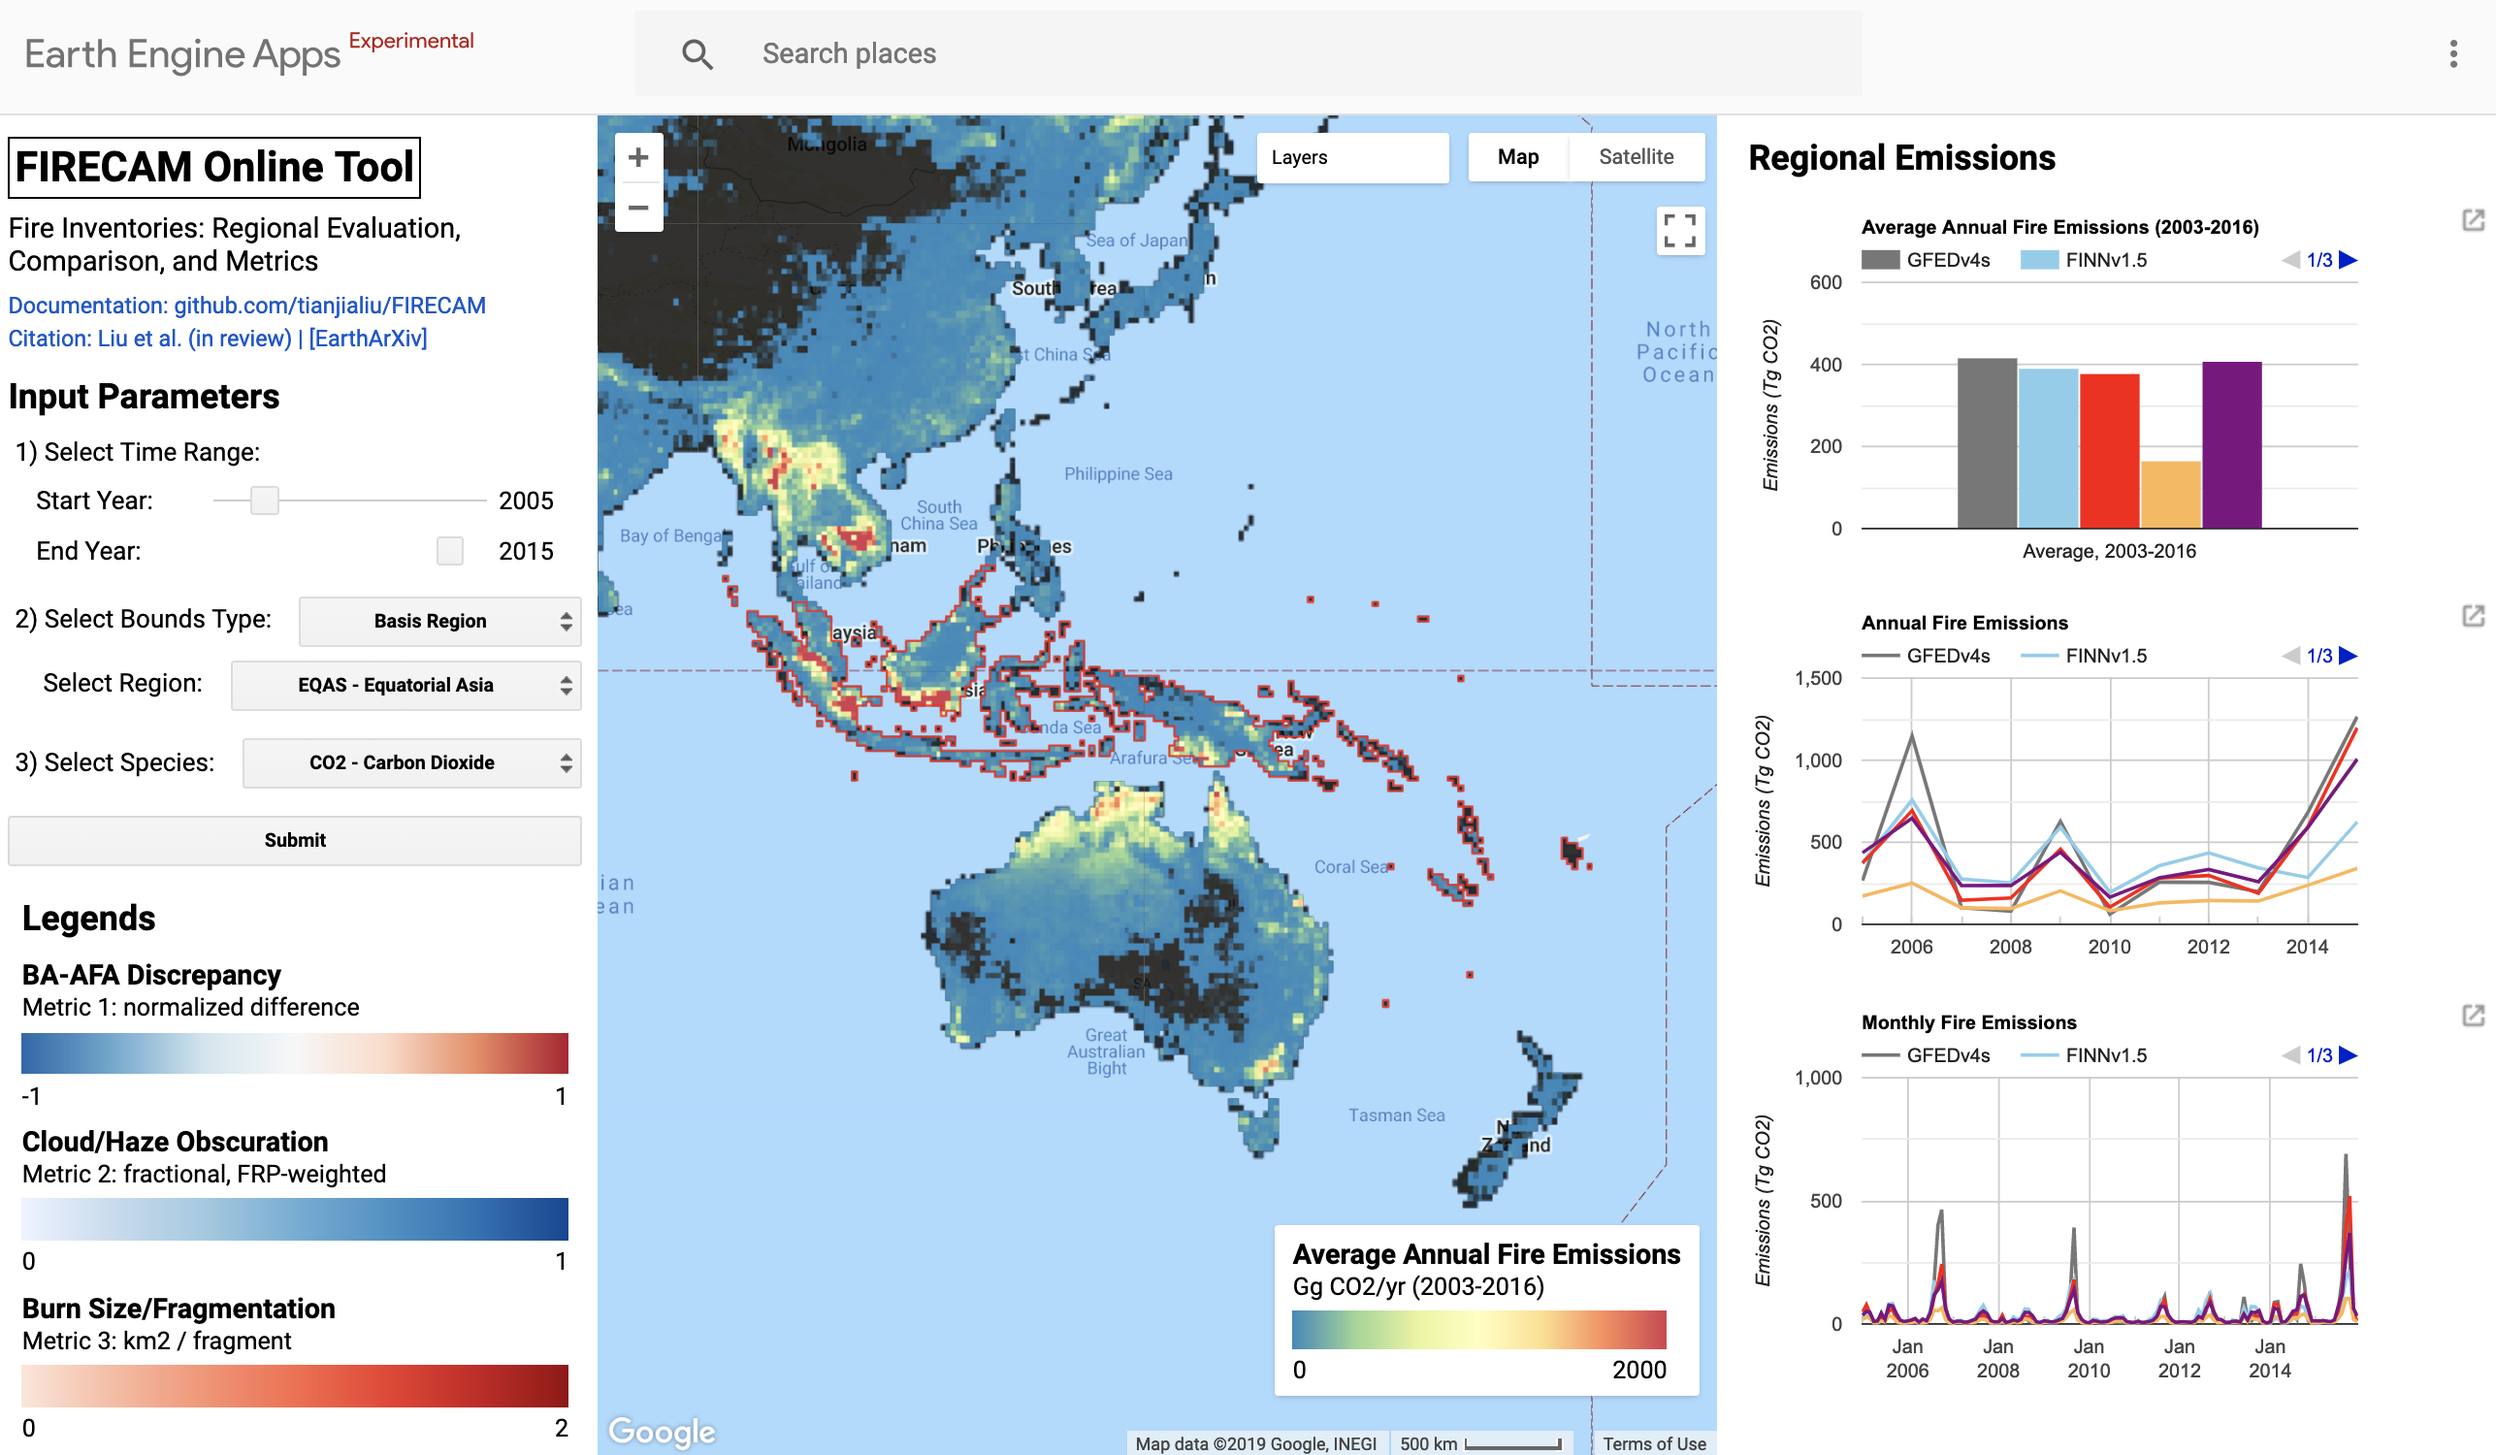
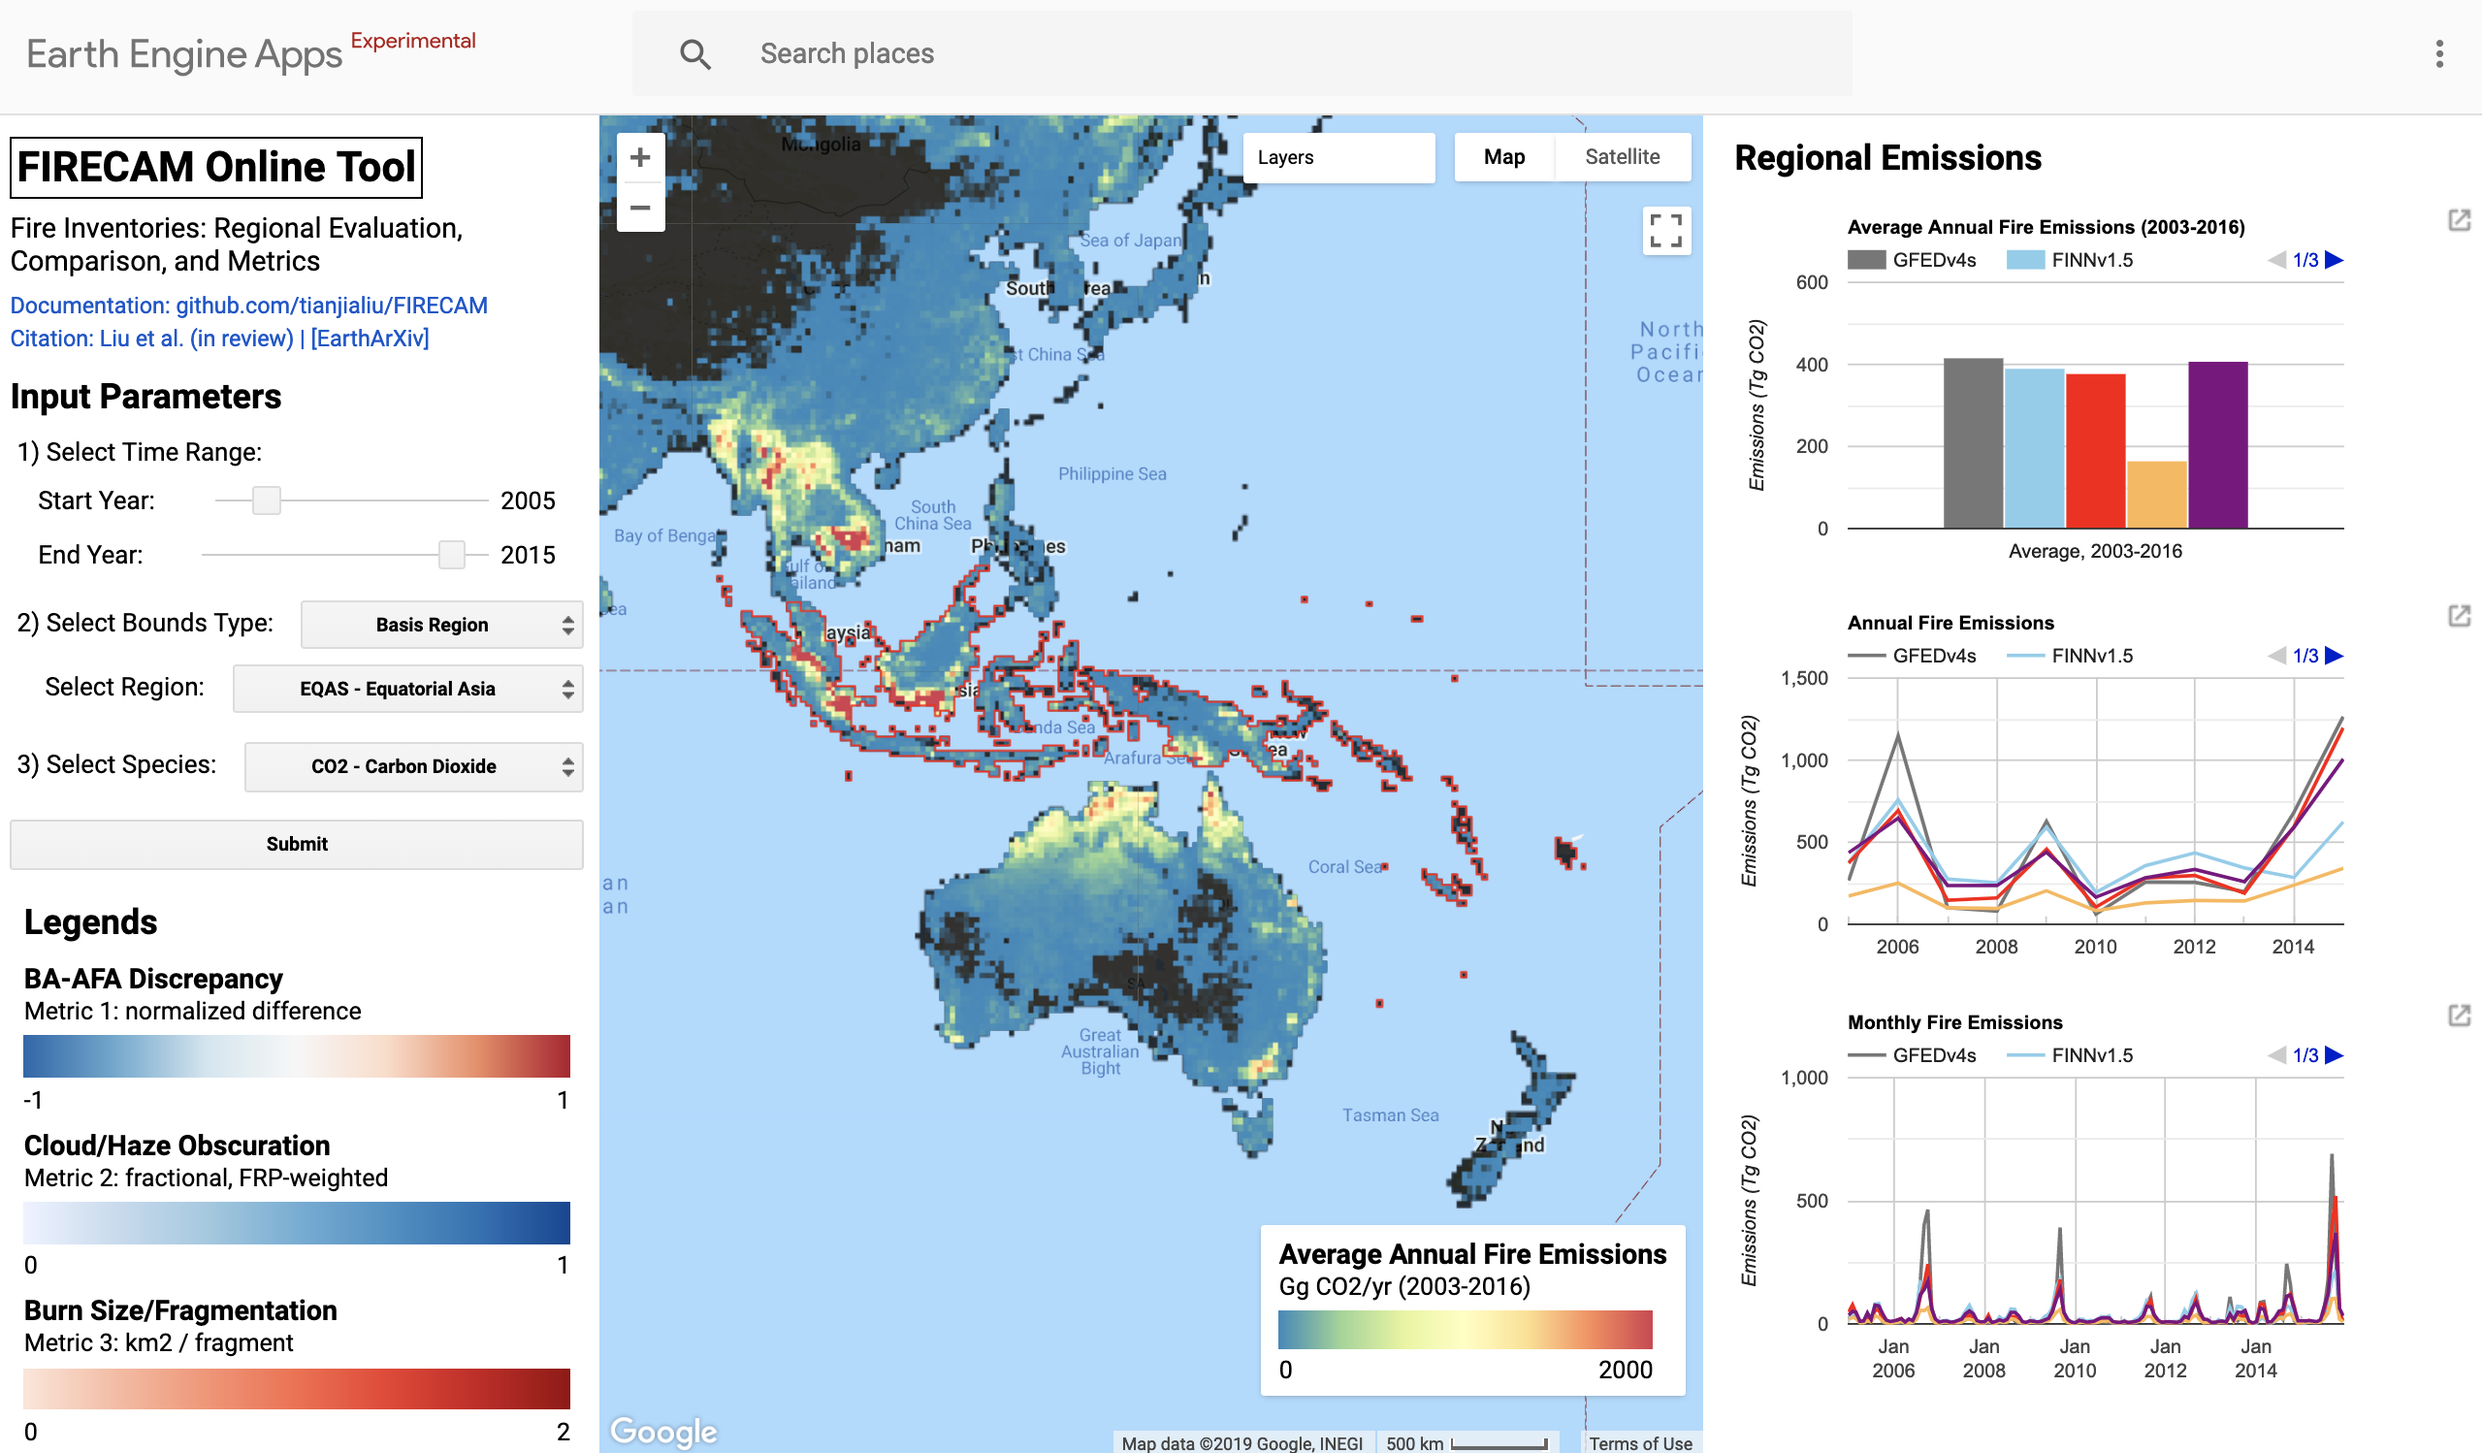
add burned area to GFEDv4s app, fix FIRECAM slider bug

diff --git a/ee/Apps/UI_GFEDv4s_Explorer.js b/ee/Apps/UI_GFEDv4s_Explorer.js
@@ -9,7 +9,7 @@
 // https://doi.org/10.5194/essd-9-697-2017
 
 // Author: Tianjia Liu
-// Last Updated: Feburary 28, 2019
+// Last Updated: March 8, 2019
 
 // ---------------
 // Global Params |
@@ -147,7 +147,7 @@ var EFlist = {
   'HOCH2CHO': [[0.25, 0.86, 0.86, 0.74, 0.74, 0.71]]
 };
 
-var speciesNames = ['DM - Dry Matter', 'C - Carbon',
+var speciesNames = ['BA - Burned Area','DM - Dry Matter', 'C - Carbon',
   'CO2 - Carbon Dioxide', 'CO - Carbon Monoxide', 'CH4 - Methane',
   'NHMC - Non-Methane Hydrocarbons', 'H2 - Hydrogen',
   'NOx - Nitric Oxides', 'N2O - Nitrous Oxide',
@@ -167,6 +167,7 @@ var speciesNames = ['DM - Dry Matter', 'C - Carbon',
 ];
   
 var speciesList = {
+  'BA - Burned Area': 'BA',
   'DM - Dry Matter': 'DM',
   'C - Carbon': 'C',
   'CO2 - Carbon Dioxide': 'CO2',
@@ -218,24 +219,37 @@ var LULC = ['SAVA','BORF','TEMF','DEFO','PEAT','AGRI'];
 var LULCtot = ['Total','SAVA','BORF','TEMF','DEFO','PEAT','AGRI'];
 
 // Calculate emissions of input species by month in kg/ grid cell
-var getEmiByMonth = function(EFs, sYear, eYear) {
+var getEmiByMonth = function(EFs, varType, sYear, eYear) {
   
   var filterYr = ee.Filter.calendarRange(sYear, eYear, 'year');
   var invCol_Yrs = invCol.filter(filterYr);
   
   var emiByMonth = invCol_Yrs.map(function(gfedMon) {
    
-    var DM = gfedMon.select('DM'); // kg per m2
-    var DMfrac = gfedMon.select('DM_.*'); // fraction
-    var sp = DM.multiply(DMfrac).multiply(EFs).multiply(gridArea)
-      .multiply(1e-12); // Tg per grid cell
+    if (varType == 'BA') {
+      var BAfrac = gfedMon.select('burned_fraction');
+      var BAsf = gfedMon.select('small_fire_fraction');
       
-    var spTotal = sp.reduce(ee.Reducer.sum());
-    var emiAll = spTotal.addBands(sp).rename(LULCtot)
-      .reproject({crs: crs, crsTransform: crsTrans})
-      .copyProperties(gfedMon,['system:time_start']);
+      var BA = BAfrac.addBands(BAfrac.multiply(BAsf))
+        .multiply(gridArea).divide(1e6).rename(['BA','BAsf'])
+        .reproject({crs: crs, crsTransform: crsTrans})
+        .copyProperties(gfedMon,['system:time_start']);
+      
+      return BA;
+    } else {
+      var DM = gfedMon.select('DM'); // kg per m2
+      var DMfrac = gfedMon.select('DM_.*'); // fraction
+      var sp = DM.multiply(DMfrac).multiply(EFs).multiply(gridArea)
+        .multiply(1e-12); // Tg per grid cell
+      
+      var spTotal = sp.reduce(ee.Reducer.sum());
+      var emiAll = spTotal.addBands(sp).rename(LULCtot)
+        .reproject({crs: crs, crsTransform: crsTrans})
+        .copyProperties(gfedMon,['system:time_start']);
     
-    return emiAll;
+      return emiAll;
+    }
+
   });
   
   return ee.ImageCollection(emiByMonth);
@@ -278,21 +292,73 @@ var colPalseries = {
   6: {color: 'DB7093'},
 };
 
+var colPalseries_BA = {
+  0: {color: '000000'},
+  1: {color: 'FF0000'},
+};
+
 var plotEmiTS = function(plotPanel, imageCol, regionShp,
   speciesLabel, timePeriod, dateFormat, 
   sYear, eYear, sMonth, eMonth, nLines) {
   
-  return ui.Chart.image.series({
-    imageCollection: imageCol.select(LULCtot,['b1','b2','b3','b4','b5','b6','b7']),
-    region: regionShp,
-    reducer: ee.Reducer.sum().unweighted(),
-    scale: scale,
-    xProperty: 'system:time_start',
-  }).setChartType('LineChart')
-    .setSeriesNames(LULCtot)
-    .setOptions({
-      title: timePeriod + ' Fire Emissions',
-      vAxis: {title: 'Emissions (Tg ' + speciesLabel + ')'},
+  if (speciesLabel == 'BA') {
+    return ui.Chart.image.series({
+      imageCollection: imageCol.select(['BA','BAsf'],['b1','b2']),
+      region: regionShp,
+      reducer: ee.Reducer.sum().unweighted(),
+      scale: scale,
+      xProperty: 'system:time_start',
+    }).setChartType('LineChart')
+      .setSeriesNames(['BA','BA from small fires'])
+      .setOptions({
+        title: timePeriod + ' Burned Area',
+        vAxis: {title: 'Burned Area (sq. km)'},
+        hAxis: {
+          format: dateFormat, 
+          viewWindowMode:'explicit',
+          viewWindow: {
+            min: ee.Date.fromYMD(sYear,sMonth,1).millis().getInfo(),
+            max: ee.Date.fromYMD(eYear,eMonth,1).millis().getInfo()
+          },
+          gridlines: {count: nLines}
+        },
+        height: '230px',
+        series: colPalseries_BA,
+      });
+  } else {
+    return ui.Chart.image.series({
+      imageCollection: imageCol.select(LULCtot,['b1','b2','b3','b4','b5','b6','b7']),
+      region: regionShp,
+      reducer: ee.Reducer.sum().unweighted(),
+      scale: scale,
+      xProperty: 'system:time_start',
+    }).setChartType('LineChart')
+      .setSeriesNames(LULCtot)
+      .setOptions({
+        title: timePeriod + ' Fire Emissions',
+        vAxis: {title: 'Emissions (Tg ' + speciesLabel + ')'},
+        hAxis: {
+          format: dateFormat, 
+          viewWindowMode:'explicit',
+          viewWindow: {
+            min: ee.Date.fromYMD(sYear,sMonth,1).millis().getInfo(),
+            max: ee.Date.fromYMD(eYear,eMonth,1).millis().getInfo()
+          },
+          gridlines: {count: nLines}
+        },
+        height: '230px',
+        series: colPalseries,
+      });
+    }
+};
+
+var updateOpts = function(emiTS, speciesLabel, timePeriod, dateFormat, 
+  sYear, eYear, sMonth, eMonth, nLines) {
+  
+  if (speciesLabel == 'BA') {
+    return emiTS.setOptions({
+      title: timePeriod + ' Burned Area',
+      vAxis: {title: 'Burned Area (sq. km)'},
       hAxis: {
         format: dateFormat, 
         viewWindowMode:'explicit',
@@ -303,14 +369,10 @@ var plotEmiTS = function(plotPanel, imageCol, regionShp,
         gridlines: {count: nLines}
       },
       height: '230px',
-      series: colPalseries,
+      series: colPalseries_BA
     });
-};
-
-var updateOpts = function(emiTS, speciesLabel, timePeriod, dateFormat, 
-  sYear, eYear, sMonth, eMonth, nLines) {
-  
-  return emiTS.setOptions({
+  } else {
+    return emiTS.setOptions({
       title: timePeriod + ' Fire Emissions',
       vAxis: {title: 'Emissions (Tg ' + speciesLabel + ')'},
       hAxis: {
@@ -325,6 +387,8 @@ var updateOpts = function(emiTS, speciesLabel, timePeriod, dateFormat,
       height: '230px',
       series: colPalseries
     });
+  }
+
 };
 
 // ------------
@@ -476,10 +540,6 @@ var submitButton = ui.Button({label: 'Submit',  style: {stretch: 'horizontal'}})
 // --------
 // Legend
 // --------
-var colPal_RdBu = ['#2166AC','#67A9CF','#D1E5F0','#F7F7F7','#FDDBC7','#EF8A62','#B2182B'];
-var colPal_Blues = ['#EFF3FF','#C6DBEF','#9ECAE1','#6BAED6','#4292C6','#2171B5','#084594'];
-var colPal_Reds = ['#FEE5D9','#FCBBA1','#FC9272','#FB6A4A','#EF3B2C','#CB181D','#99000D'];
-var colPal_Grays = ['#F7F7F7','#D9D9D9','#BDBDBD','#969696','#737373','#525252','#252525'];
 var colPal_Spectral = ['#3288BD','#99D594','#E6F598','#FFFFBF','#FEE08B','#FC8D59','#D53E4F'];
 
 var emiLegend = function(speciesLabel, units, maxVal, sYear, eYear) {
@@ -586,16 +646,16 @@ submitButton.onClick(function() {
   var speciesLabel = speciesList[speciesLong];
   
   // Default Map
-  var default_sp = 'DM'; var unitsLabel = 'Mg'; var maxVal = 500;
-
-  var EFs_default = ee.Image(EFlist[default_sp]).rename(LULC)
+  var display_sp = 'DM'; var unitsLabel = 'Mg'; var maxVal = 500;
+  
+  var EFs_display = ee.Image(EFlist[display_sp]).rename(LULC)
     .reproject({crs: crs, crsTransform: crsTrans});
-  var emiByMonth_default = getEmiByMonth(EFs_default, sYear, eYear);
-  var emiByYr_default = getEmiByYr(emiByMonth_default, sYear, eYear);
-  var emiByYrMean_default = emiByYr_default.reduce(ee.Reducer.mean()).divide(1e6);
+  var emiByMonth_display = getEmiByMonth(EFs_display, display_sp, sYear, eYear);
+  var emiByYr_display = getEmiByYr(emiByMonth_display, sYear, eYear);
+  var emiByYrMean_display = emiByYr_display.reduce(ee.Reducer.mean()).divide(1e6);
 
   // Display Maps:
-  var legendPanel = emiLegend(default_sp, unitsLabel, maxVal, sYear, eYear);
+  var legendPanel = emiLegend(display_sp, unitsLabel, maxVal, sYear, eYear);
   
   if (counter > 1) {controlPanel.remove(controlPanel.widgets().get(6))}
   map.add(controlPanel); controlPanel.add(legendPanel);
@@ -603,7 +663,7 @@ submitButton.onClick(function() {
   map.addLayer(ee.Image(1).clip(basisRegions).rename('Basis Regions'),
     {palette: '#000000', opacity: 0.8}, 'Basis Regions');
     
-  map.addLayer(emiByYrMean_default.select('Total.*').multiply(1e9).selfMask(),
+  map.addLayer(emiByYrMean_display.select('Total.*').multiply(1e9).selfMask(),
     {palette: colPal_Spectral, min: 0, max: maxVal}, 'GFEDv4s');
 
   if (regionType == 'Basis Region' | regionType == 'Country/ Sub-Region') {
@@ -642,10 +702,16 @@ submitButton.onClick(function() {
   var EFs = ee.Image(EFlist[speciesLabel]).rename(LULC)
     .reproject({crs: crs, crsTransform: crsTrans});
   
-  var emiByMonth = getEmiByMonth(EFs, sYear, eYear);
+  var emiByMonth = getEmiByMonth(EFs, speciesLabel, sYear, eYear);
   var emiByYr = getEmiByYr(emiByMonth, sYear, eYear);
   
   // Display Charts:
+  if (speciesLabel == 'BA') {
+    plotPanelParent.widgets().get(0).setValue('Burned Area');
+  } else {
+    plotPanelParent.widgets().get(0).setValue('Emissions by Land Use/Land Cover');
+  }
+  
   map.add(plotPanelParent);
   plotPanel = plotPanel.clear();
   
@@ -663,7 +729,7 @@ submitButton.onClick(function() {
   var monthlyChart = plotEmiTS(plotPanel, emiByMonth, regionShp,
     speciesLabel, 'Monthly', 'MMM Y', sYear, eYear, 1, 12, null);
   plotPanel.add(monthlyChart);
-  
+
 });
 
 

diff --git a/ee/Apps/UI_FIRECAM.js b/ee/Apps/UI_FIRECAM.js
@@ -6,7 +6,7 @@
 /*
 // Documentation: https://github.com/tianjialiu/FIRECAM
 // Author: Tianjia Liu
-// Last updated: February 28, 2019
+// Last updated: March 10, 2019
 
 // Purpose: explore regional differences in fire emissions from five
 // global fire emissions inventories (GFED, FINN, GFAS, QFED, FEER)
@@ -397,8 +397,8 @@ var yearSelectPanel = function() {
   var startYearSlider = ui.Slider({min: sYear_abs, max: eYear_abs, value: 2005, step: 1, style: {margin: '3px 8px 8px 14px'}});
   startYearSlider.style().set('stretch', 'horizontal');
   
-  var endYearLabel = ui.Label('End Year:', {margin: '3px 20px 8px 24px', fontSize: '14.5px'});
-  var endYearSlider = ui.Slider({min: sYear_abs, max: eYear_abs, value: 2015, step: 1, style: {margin: '3px 8px 8px 14px'}});
+  var endYearLabel = ui.Label('End Year:', {margin: '5px 20px 8px 24px', fontSize: '14.5px'});
+  var endYearSlider = ui.Slider({min: sYear_abs, max: eYear_abs, value: 2015, step: 1, style: {margin: '5px 8px 8px 14px'}});
   endYearSlider.style().set('stretch', 'horizontal');
   
   var changeSliderYr = function() {

diff --git a/README.md b/README.md
@@ -11,7 +11,8 @@ FIRECAM is an explorer for regional differences in fire emissions from five glob
 FIRECAM can be accessed through 1) Earth Engine Apps and 2) the Google Earth Engine (GEE) playground. While EE Apps faciliates access to FIRECAM for any user (does not require a GEE account), accessing the FIRECAM repository in the GEE playground allows custom exports of timeseries and additional data analysis.
 
 ### Ancillary Apps
-* [GFEDv4s Explorer](https://globalfires.earthengine.app/view/gfedv4s): Explore GFEDv4s emissions (1997-2016) for all available species, partitioned by land use/land cover
+* [GFEDv4s Explorer](https://globalfires.earthengine.app/view/gfedv4s): Explore GFEDv4s emissions (1997-2016) for burned area and all available chemical species, partitioned by land use/land cover
+    - *Note*: Burned area from small fires is approximate based on the small fire fraction for emissions
 
 ## FIRECAM App
 (*Earth Engine Apps, no Google Earth Engine account required*)
